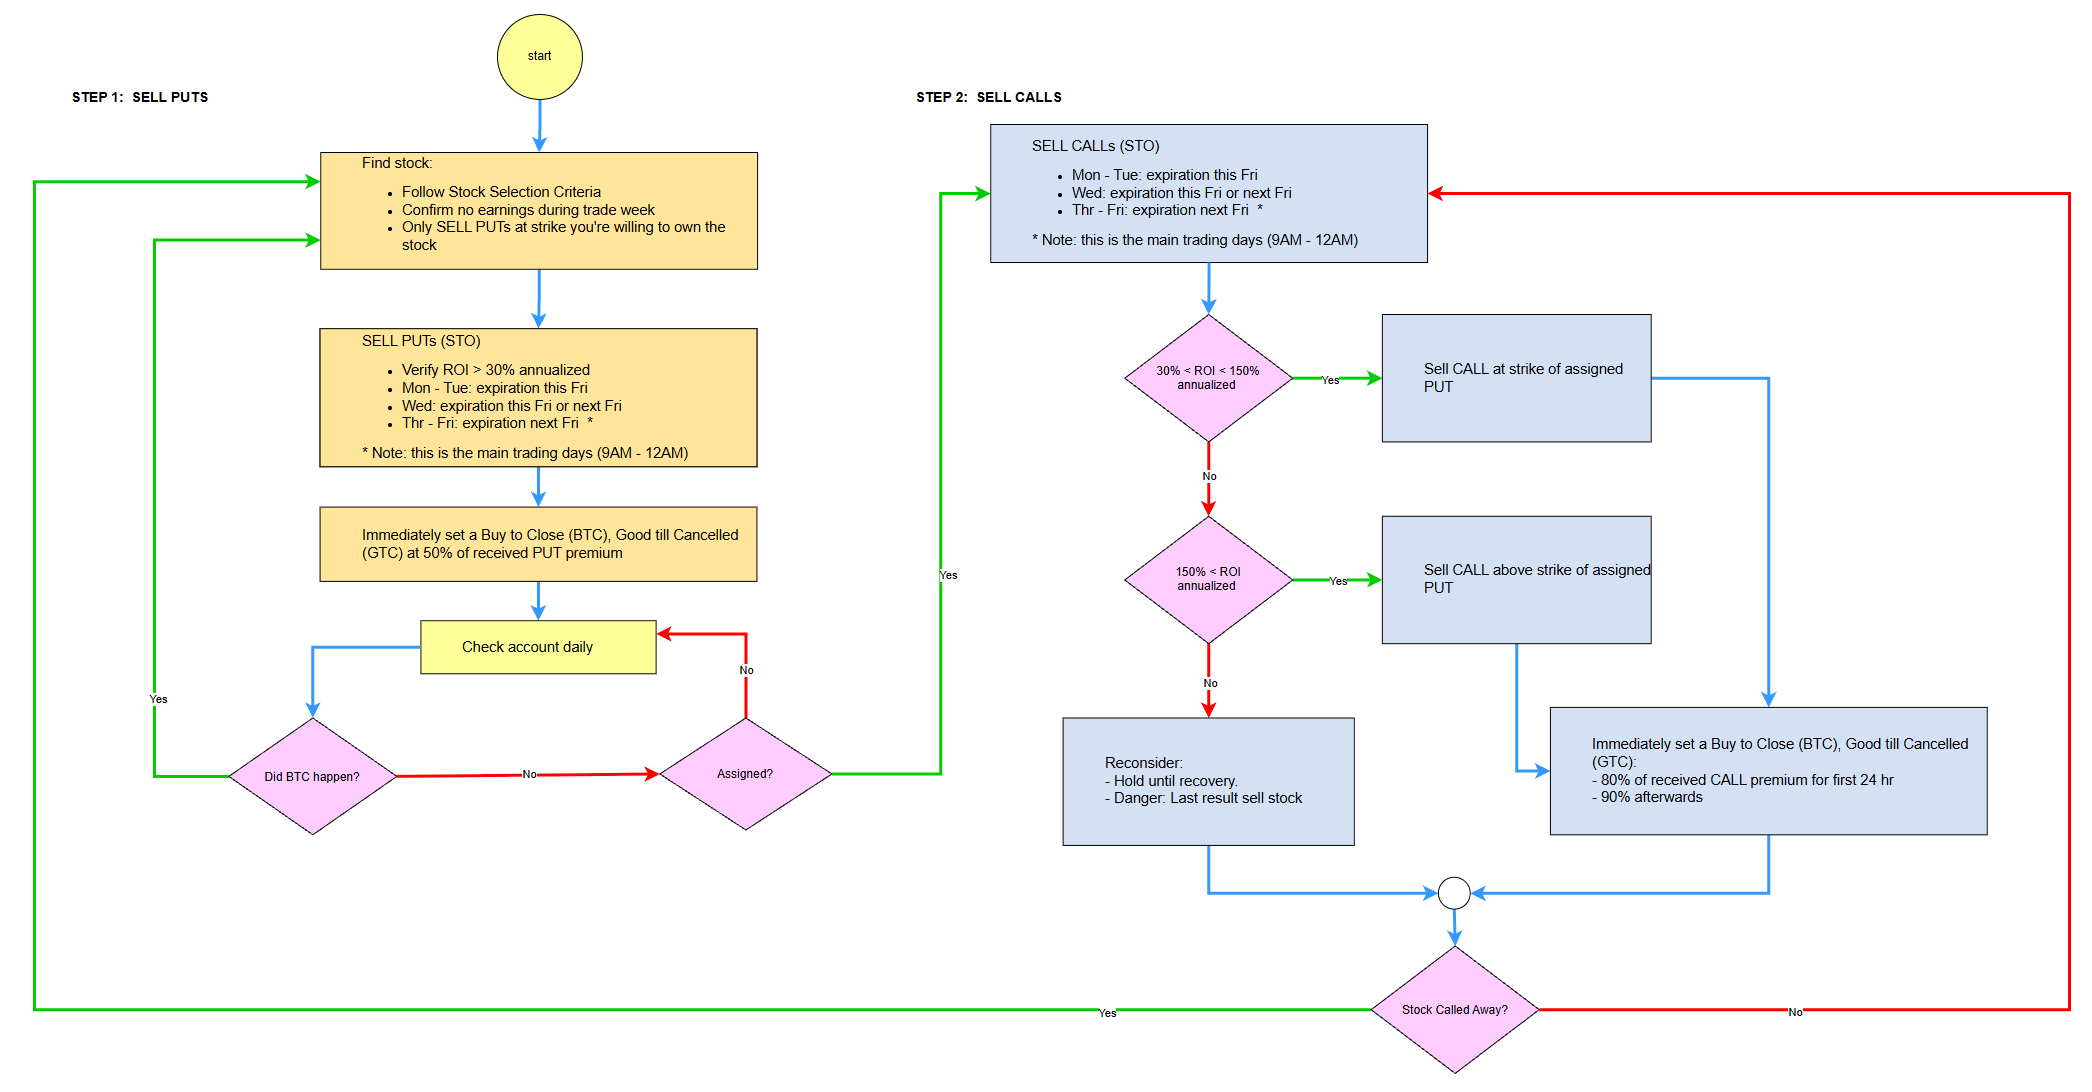
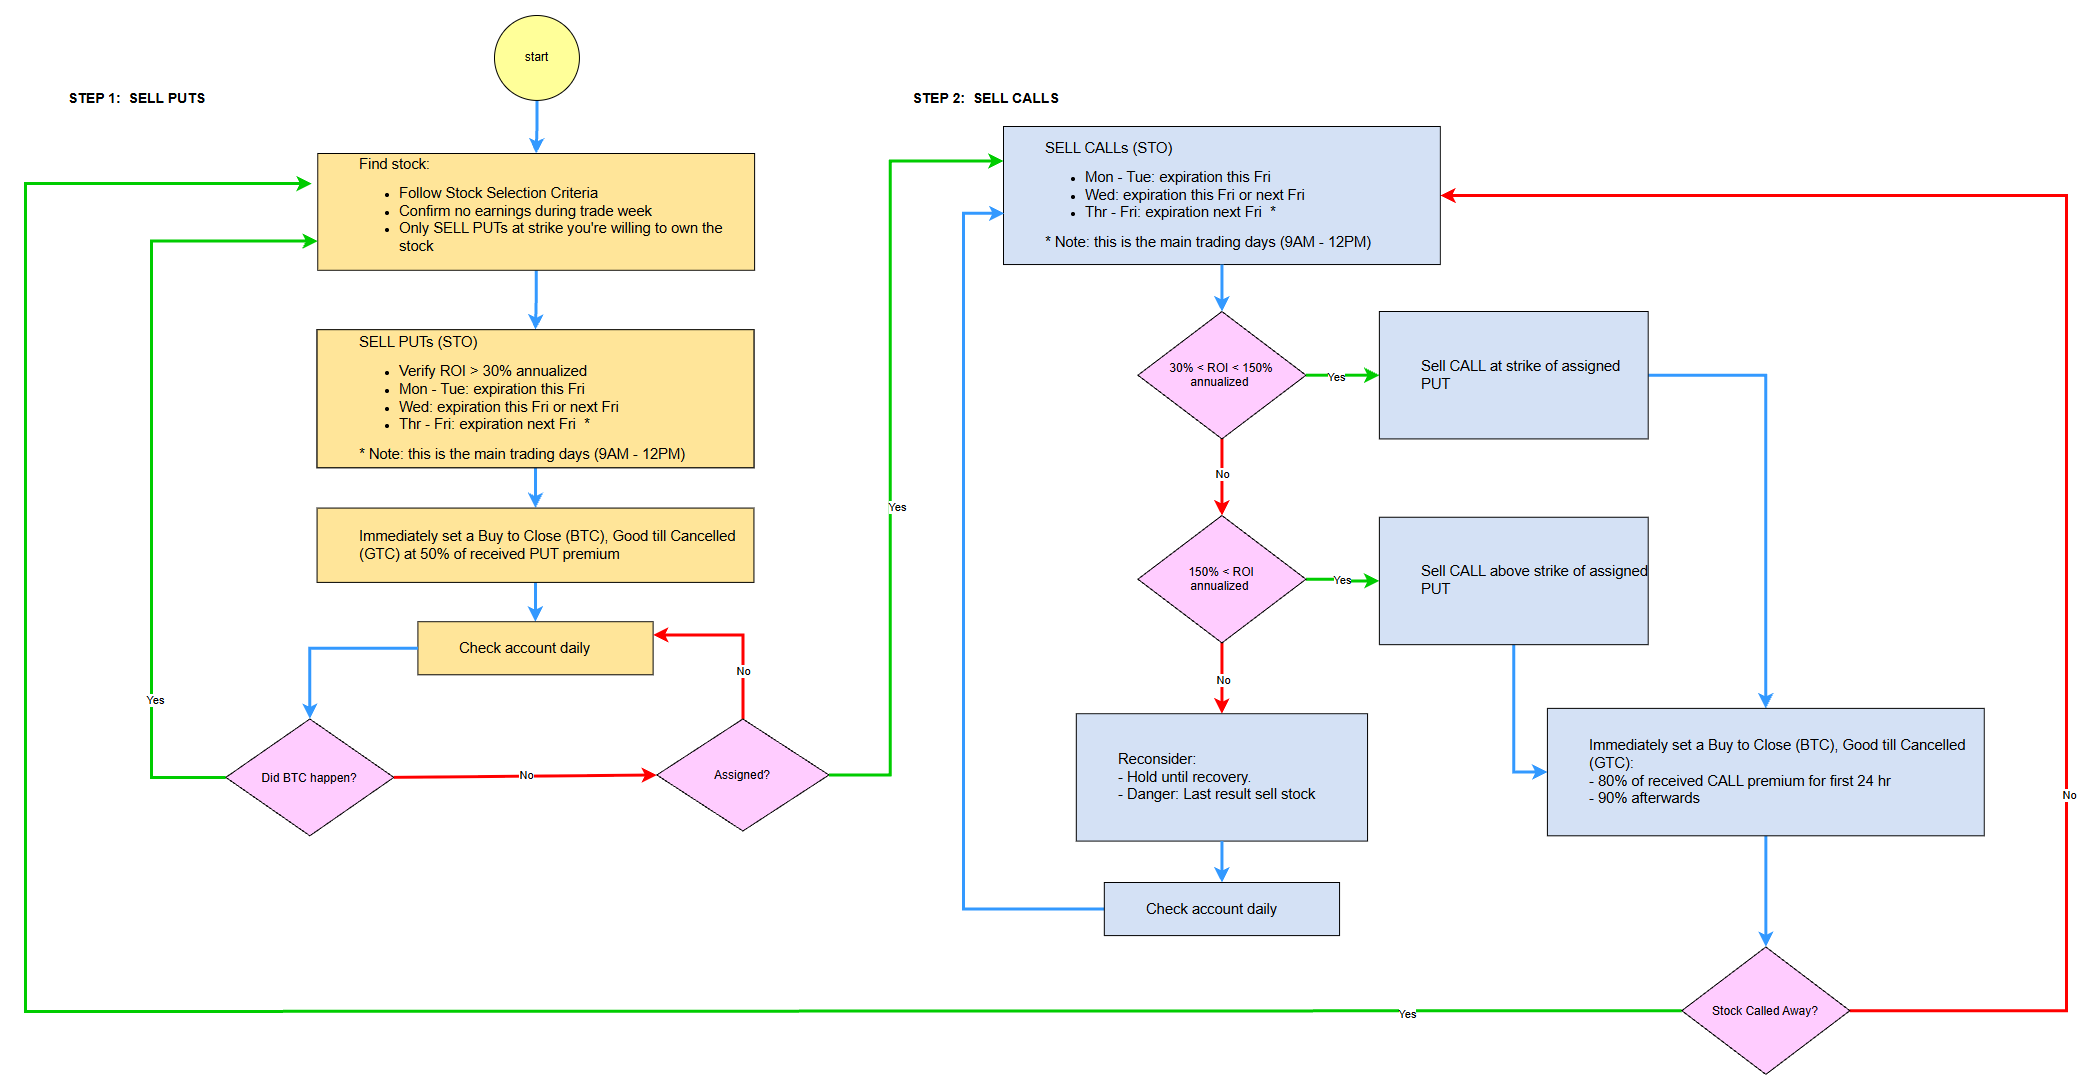
update

diff --git a/wheel/static/index.html b/wheel/static/index.html
@@ -709,7 +709,7 @@
           </summary>
           <img
             src="/wheel-strategy.png"
-            alt="Wheel strategy flowchart. Step 1, sell puts: find a stock meeting the selection criteria, sell a put at 30%+ annualized ROI with expiration timed to the day of the week, immediately set a buy-to-close good-till-cancelled at 50% of the premium, then check the account daily -- if the buy-to-close fills, repeat; if assigned instead, move to step 2. Step 2, sell calls: sell a call timed the same way, at the assigned put's strike if ROI is 30-150% annualized or above it if ROI exceeds 150%, otherwise hold for recovery or sell the stock as a last resort; immediately set a buy-to-close at 80% of the premium for the first 24 hours and 90% after; if the stock gets called away, go back to step 1, otherwise keep checking daily."
+            alt="Wheel strategy flowchart. Step 1, sell puts: find a stock meeting the selection criteria, sell a put at 30%+ annualized ROI with expiration timed to the day of the week (main trading window 9AM-12PM), immediately set a buy-to-close good-till-cancelled at 50% of the premium, then check the account daily -- if the buy-to-close fills, repeat; if assigned instead, move to step 2. Step 2, sell calls: sell a call timed the same way, at the assigned put's strike if ROI is 30-150% annualized, or above it if ROI exceeds 150%; if ROI is too low, hold for recovery or sell the stock as a last resort, checking daily until conditions justify selling a call. Once a call is sold, immediately set a buy-to-close at 80% of the premium for the first 24 hours and 90% after; if the stock then gets called away, go back to step 1, otherwise keep checking daily."
             style="max-width: 100%; margin-top: 12px; border-radius: 8px; border: 1px solid var(--border)"
           />
         </details>
